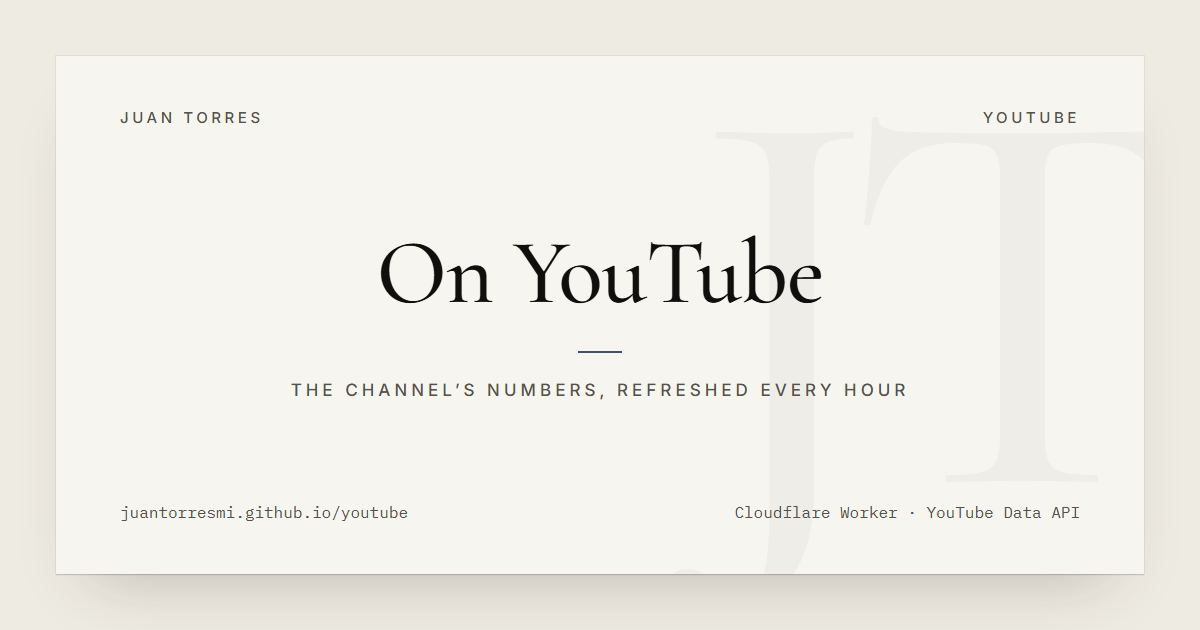
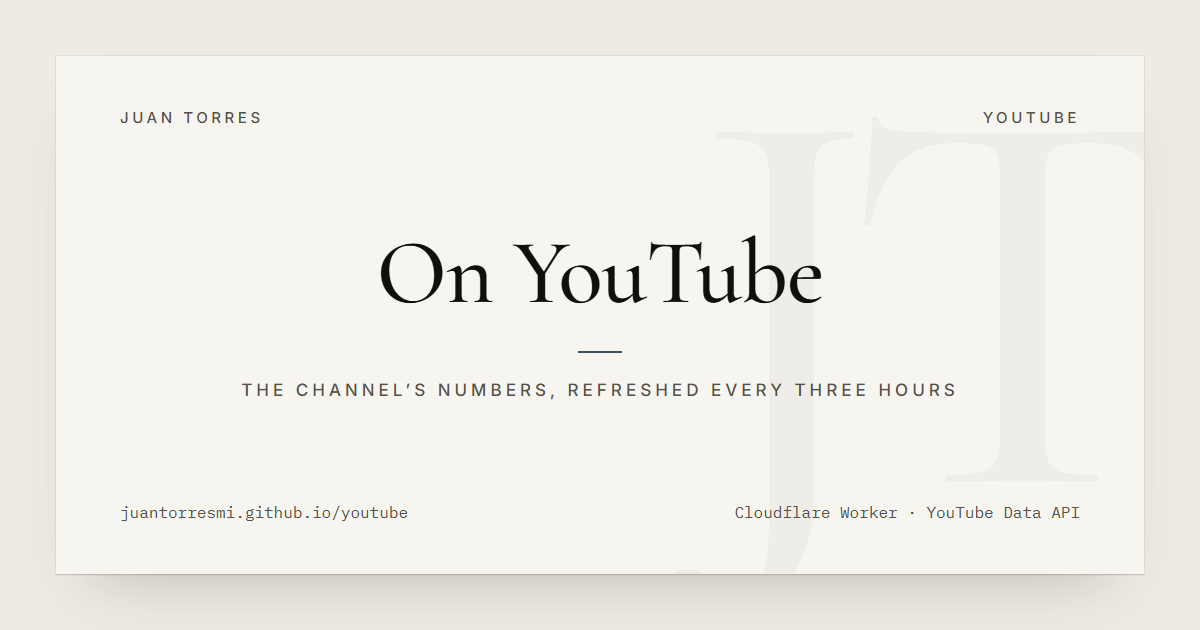
Time the Worker to the reports: fewer checks, pages rebuilt when prices land
Beef and pork checks run only in USDA's windows (weekdays 1:30-6 pm
Central until the day's report is stored, 6-8 am for corrections),
about 8 a weekday instead of 28. Storing a new report starts the
snapshot, waiting for both reports in the afternoon and queueing
through the cooldown. One fixed start a day at 11:47 UTC; GitHub's
backup moved to 13:41 daily and 23:41 weekdays. YouTube is polled
every three hours. Wording, share picture and docs follow.

Changed region(s): [[0.185, 0.6032, 0.8017, 0.6333]]

diff --git a/worker/src/index.js b/worker/src/index.js
@@ -13,10 +13,10 @@
  *   /music/...     Yokonjuan's page: catalog, visitor counter, guestbook (see music.js)
  *
  * Two cron triggers in wrangler.toml call `scheduled`, at :17 and :47. Both read CBP's border wait
- * times, so those are polled every half hour; on weekdays from 6 am to 8 pm Central (lmrHours) they
- * also check for a new boxed beef and pork report. The :17 run also polls YouTube. The :47 runs at 09
- * and 21 UTC start the site's snapshot workflow (refresh.js), since GitHub's own schedule for it runs
- * hours late or not at all. The reefer rates
+ * times, so those are polled every half hour. On weekdays, in the windows USDA posts and corrects the
+ * boxed beef and pork reports (lmrWindow), they check for a new one, and a new one starts the site's
+ * snapshot workflow (refresh.js); so does the :47 run at 11 UTC, every day. The :17 run every three
+ * hours polls YouTube. The reefer rates
  * need no cron: USDA keeps them, and they're asked for on request.
  */
 import { catalog, CATALOG_MAX_AGE, visits, guestbook, sign, unsign, Refused } from "./music.js";
@@ -25,7 +25,7 @@ import { reeferWeek, REEFER_MAX_AGE, REEFER_WEEK_MAX_AGE } from "./reefer.js";
 import { borderTick, borderNow, borderPort, BORDER_MAX_AGE, BORDER_PORT_MAX_AGE } from "./border.js";
 import { beefTick, beefData, BEEF_MAX_AGE } from "./beef.js";
 import { porkTick, porkData, PORK_MAX_AGE } from "./pork.js";
-import { refreshState, startSnapshot, snapshotDue } from "./refresh.js";
+import { refreshState, startSnapshot, snapshotDue, setPending, isPending } from "./refresh.js";
 
 const STREMIO = "https://api.strem.io/api/datastoreGet";
 const SUBSTACK = "https://juantorresis.substack.com/feed";
@@ -85,25 +85,56 @@ export default {
   // Crons in wrangler.toml. A failed poll is logged and the last stored data stays.
   async scheduled(event, env, ctx) {
     const log = (what) => (e) => console.error(what + ":", e && e.message ? e.message : e);
-    if (event.cron === YOUTUBE_CRON) ctx.waitUntil(poll(env).catch(log("youtube poll")));
+    const now = new Date(event.scheduledTime || Date.now());
+    // A small channel's numbers barely move in an hour, and the page says when they were checked.
+    if (event.cron === YOUTUBE_CRON && now.getUTCHours() % YOUTUBE_EVERY_H === 0) ctx.waitUntil(poll(env).catch(log("youtube poll")));
     ctx.waitUntil(borderTick(env).catch(log("border")));
-    if (snapshotDue(new Date(event.scheduledTime || Date.now()), event.cron)) ctx.waitUntil(startSnapshot(env, "cron").catch(log("snapshot start")));
-    // USDA posts the beef and pork reports on weekday afternoons and corrects them the same day or
-    // the next morning, so the summary checks only run then: 28 a weekday instead of 48 every day.
-    if (lmrHours(new Date(event.scheduledTime || Date.now()))) {
-      ctx.waitUntil(beefTick(env).catch(log("beef")));
-      ctx.waitUntil(porkTick(env).catch(log("pork")));
-    }
+    ctx.waitUntil(pagesTick(env, now, event.cron, log).catch(log("usda and pages")));
   },
 };
 
-/* Monday to Friday, 6 am to 8 pm Central: when a new or corrected USDA livestock report can appear.
-   A page whose copy is behind outside these hours still gets the stored report from /beef or /pork. */
-export function lmrHours(now) {
-  const parts = Object.fromEntries(new Intl.DateTimeFormat("en-US", { timeZone: "America/Chicago", weekday: "short", hour: "numeric", hourCycle: "h23" })
-    .formatToParts(now).map((p) => [p.type, p.value]));
-  const hour = Number(parts.hour);
-  return !["Sat", "Sun"].includes(parts.weekday) && hour >= 6 && hour < 20;
+const YOUTUBE_EVERY_H = 3;
+
+/* The beef and pork report checks, then whether to start the site's snapshot (refresh.js).
+   In the afternoon window a check stops once that day's report is stored, so most afternoons it asks
+   USDA two or three times; the morning window catches USDA's corrections to the day before. A new or
+   corrected report marks the pages pending. In the afternoon a pending start waits until both
+   reports for the day are in (they come about ten minutes apart, and one start covers both) or the
+   window ends; in the morning, or once the window is over, it starts at the next run the cooldown
+   allows. The daily morning start covers everything else and clears anything pending. */
+export async function pagesTick(env, now, cron, log) {
+  const w = lmrWindow(now), today = centralDay(now);
+  let both = false;
+  if (w) {
+    const skipDay = w === "afternoon" ? today : null;
+    const [b, p] = await Promise.all([beefTick(env, { skipDay }).catch(log("beef")), porkTick(env, { skipDay }).catch(log("pork"))]);
+    if ((b && b.changed) || (p && p.changed)) await setPending(env, true);
+    both = Boolean(b && p && b.latest === today && p.latest === today);
+  }
+  if (!env.GH_DISPATCH_TOKEN) return;
+  if (snapshotDue(now, cron)) {
+    if ((await startSnapshot(env, "morning")).started) await setPending(env, false);
+    return;
+  }
+  if ((both || w !== "afternoon") && (await isPending(env))) {
+    if ((await startSnapshot(env, "new report")).started) await setPending(env, false);
+  }
+}
+
+const central = (now) => Object.fromEntries(new Intl.DateTimeFormat("en-US", { timeZone: "America/Chicago", weekday: "short", hour: "numeric", minute: "numeric", hourCycle: "h23" })
+  .formatToParts(now).map((p) => [p.type, p.value]));
+const centralDay = (now) => new Intl.DateTimeFormat("en-CA", { timeZone: "America/Chicago" }).format(now);   // "YYYY-MM-DD"
+
+/* When a check can find something, Monday to Friday, Central time: "afternoon" from 1:30 to 6 pm, when
+   USDA posts the day's report (about 2:45 pm for beef, 2:55 for pork, sometimes late); "morning" from
+   6 to 8 am, when it corrects the day before. Otherwise null: a stored report can't change then, and
+   a page whose copy is behind still gets it from /beef or /pork. */
+export function lmrWindow(now) {
+  const c = central(now), mins = Number(c.hour) * 60 + Number(c.minute);
+  if (["Sat", "Sun"].includes(c.weekday)) return null;
+  if (mins >= 13 * 60 + 30 && mins < 18 * 60) return "afternoon";
+  if (mins >= 6 * 60 && mins < 8 * 60) return "morning";
+  return null;
 }
 
 const json = (body, status, headers) =>
@@ -249,8 +280,8 @@ async function latestRoute(env, ctx, url, cors, name, data, maxAge) {
   }
   // Nothing stored yet: answer, but don't keep the empty answer at the edge (see reeferRoute).
   if (!payload.latest) return json(payload, 200, { ...cors, "Cache-Control": "no-store" });
-  // Outside the hours a report can change (lmrHours) the stored one holds until morning: an hour at the edge.
-  const res = json(payload, 200, { ...cors, "Cache-Control": `public, max-age=${lmrHours(new Date()) ? maxAge : 3600}` });
+  // Outside the windows a report can change (lmrWindow) the stored one holds: an hour at the edge.
+  const res = json(payload, 200, { ...cors, "Cache-Control": `public, max-age=${lmrWindow(new Date()) ? maxAge : 3600}` });
   ctx.waitUntil(cache.put(cacheKey, res.clone()));
   return res;
 }

diff --git a/youtube.html b/youtube.html
@@ -3,15 +3,15 @@ layout: default
 title: YouTube
 seo_title: "Kalista ADC Gameplay, Emerald · YouTube · Juan Torres"
 permalink: /youtube/
-description: "Kalista ADC gameplay from Emerald League of Legends games, full games and short clips, with the channel's live numbers, refreshed every hour."
+description: "Kalista ADC gameplay from Emerald League of Legends games, full games and short clips, with the channel's live numbers, refreshed every three hours."
 image: /assets/og/youtube.png
-image_alt: "YouTube, by Juan Torres. Channel numbers refreshed every hour by a Cloudflare Worker."
+image_alt: "YouTube, by Juan Torres. Channel numbers refreshed every three hours by a Cloudflare Worker."
 stock: night
 ---
 {%- comment -%}
   A "gamer" page (see the families in CLAUDE.md): night stock, HUD frames, mono labels. Styles
   are scoped under .yt in style.css.
-  site.data.live.youtube is a twice-daily copy of the Worker's answer (scripts/snapshot.py), already
+  site.data.live.youtube is a daily copy of the Worker's answer (scripts/snapshot.py), already
   formatted. It is what crawlers and readers without JavaScript see; the script below swaps in
   the live numbers. Each block falls back to the old placeholder if the copy is missing.
 {%- endcomment -%}
@@ -21,7 +21,7 @@ stock: night
   <div class="yt-title">
     <p class="family">Gamer · Juan Julio · @juanjulio001</p>
     <h1>Kalista ADC gameplay, Emerald</h1>
-    <p class="yt-lede">Full League of Legends games and short clips from my Kalista ADC games in Emerald. The numbers below come straight from YouTube, refreshed every hour. <a class="link" href="#how-it-works">How this page gets them</a> is further down.</p>
+    <p class="yt-lede">Full League of Legends games and short clips from my Kalista ADC games in Emerald. The numbers below come straight from YouTube, refreshed every three hours. <a class="link" href="#how-it-works">How this page gets them</a> is further down.</p>
   </div>
   <a class="yt-sub" id="yt-link" href="{{ yt.channel_url | default: 'https://www.youtube.com/@juanjulio001' }}?sub_confirmation=1">
     <svg viewBox="0 0 16 16" aria-hidden="true"><path d="M5 3.5v9l7-4.5z"/></svg>Subscribe on YouTube</a>
@@ -32,7 +32,7 @@ stock: night
     {%- for t in yt.hud %}<div class="yt-stat{% if t.hot %} hot{% endif %}"><span class="l">{{ t.l | escape }}</span><span class="n">{{ t.n | escape }}</span></div>{% endfor -%}
   {%- else %}<p class="yt-note">Asking YouTube…</p>{% endif -%}
 </section>
-<noscript><p class="yt-note">{% if yt %}With JavaScript off, these are the numbers as of {{ yt.checked }}, copied into the page twice a day.{% else %}The numbers are filled in by a script. With JavaScript off, the channel is one click away on YouTube.{% endif %}</p></noscript>
+<noscript><p class="yt-note">{% if yt %}With JavaScript off, these are the numbers as of {{ yt.checked }}, copied into the page at least once a day.{% else %}The numbers are filled in by a script. With JavaScript off, the channel is one click away on YouTube.{% endif %}</p></noscript>
 
 <div class="yt-pair">
   <section class="yt-block yt-feature-wrap" aria-labelledby="yt-feature-h">
@@ -95,14 +95,14 @@ stock: night
     <div class="body prose">
       <p>A web page can’t ask YouTube for numbers on its own without putting an API key in its source, where anyone can copy it. So the asking happens somewhere else: a small Cloudflare Worker, the same one that already runs this site’s <a href="/watching/">house TV</a> board and the Substack feed on the <a href="/blog/">writing</a> page.</p>
       <ol>
-        <li><strong>Once an hour, the Worker wakes itself up.</strong> A cron trigger runs it at 17 minutes past every hour. No one has to visit the page, and my computer doesn’t have to be on.</li>
+        <li><strong>Every three hours, the Worker wakes itself up.</strong> A cron trigger runs it at 17 minutes past midnight, 3, 6 and so on (UTC). No one has to visit the page, and my computer doesn’t have to be on.</li>
         <li><strong>It asks YouTube three questions.</strong> One call for the channel’s subscribers, total views and video count, one for the list of its latest uploads, and one for each upload’s views, likes and length. Each call costs one unit of YouTube’s free daily quota of 10,000, so the whole day costs 72.</li>
         <li><strong>It writes the answer down.</strong> The latest snapshot goes into a small SQLite database on Cloudflare (D1), along with one row per day, which is where the day-by-day changes above come from. If YouTube doesn’t answer, nothing is overwritten and the last good snapshot stays.</li>
         <li><strong>This page reads the snapshot, not YouTube.</strong> Your visit costs YouTube’s quota nothing, and a busy day on the site can’t use it up. Cloudflare also keeps a copy at the edge for five minutes, so most visits don’t even reach the database.</li>
-        <li><strong>Twice a day, a copy goes into the page itself.</strong> A GitHub Action asks the Worker for the snapshot and writes it into this page’s HTML. That copy is what search engines, link previews and browsers with JavaScript off see; with JavaScript on, the script swaps in the live numbers a moment after the page loads.</li>
+        <li><strong>At least once a day, a copy goes into the page itself.</strong> A GitHub Action asks the Worker for the snapshot and writes it into this page’s HTML. That copy is what search engines, link previews and browsers with JavaScript off see; with JavaScript on, the script swaps in the live numbers a moment after the page loads.</li>
       </ol>
       <p>The key the Worker uses is a plain YouTube Data API key, stored as an encrypted secret on Cloudflare and never in this site’s code. It can only read public data: it can’t sign in, upload, or change anything on the channel. The uploads themselves come from a separate program on my own computer that has its own sign-in and its own quota, so this page can never get in their way.</p>
-      <p>All of it runs on free plans. Cloudflare’s free tier covers the hourly job, the database and the requests with a lot of room to spare, and on that plan going over a limit makes requests fail until the next day instead of sending a bill.</p>
+      <p>All of it runs on free plans. Cloudflare’s free tier covers the scheduled job, the database and the requests with a lot of room to spare, and on that plan going over a limit makes requests fail until the next day instead of sending a bill.</p>
       <p>Two things on this page are YouTube’s rules, not mine. The public subscriber count is rounded to three significant figures, so 12,345 shows as 12,300. And “Short” here means an upload three minutes long or less, which is YouTube’s own limit for one.</p>
       <p>The code is in the <a href="https://github.com/JuanTorresMI/JuanTorresMI.github.io/tree/main/worker">worker folder</a> of this site’s repository on GitHub, along with the setup steps.</p>
     </div>

diff --git a/_includes/beef-board.html b/_includes/beef-board.html
@@ -218,7 +218,7 @@
 
 <section class="rb-sec" id="data" aria-labelledby="data-h">
   <h2 id="data-h">{% if es %}Descargar los datos{% else %}Download the data{% endif %}</h2>
-  <p>{% if es %}Todo lo de esta página y de las páginas de cada corte, como archivos CSV sencillos que cualquiera puede abrir en una hoja de cálculo o cargar en código. Se reescriben dos veces al día con el reporte más nuevo y son de uso libre: los números son del USDA, y los datos del gobierno de EE. UU. son de dominio público. Dé crédito a USDA AMS Livestock, Poultry and Grain Market News.{% else %}Everything on this page and the cut pages, as plain CSV files anyone can open in a spreadsheet or load into code. They’re rewritten twice a day with the newest report and are free to use: the numbers are USDA’s, and U.S. government data is in the public domain. Credit USDA AMS Livestock, Poultry and Grain Market News.{% endif %}</p>
+  <p>{% if es %}Todo lo de esta página y de las páginas de cada corte, como archivos CSV sencillos que cualquiera puede abrir en una hoja de cálculo o cargar en código. Se reescriben al menos una vez al día con el reporte más nuevo y son de uso libre: los números son del USDA, y los datos del gobierno de EE. UU. son de dominio público. Dé crédito a USDA AMS Livestock, Poultry and Grain Market News.{% else %}Everything on this page and the cut pages, as plain CSV files anyone can open in a spreadsheet or load into code. They’re rewritten at least once a day with the newest report and are free to use: the numbers are USDA’s, and U.S. government data is in the public domain. Credit USDA AMS Livestock, Poultry and Grain Market News.{% endif %}</p>
   <div class="rb-scroll">
     <table class="rb-t rb-wrap">
       <thead><tr><th scope="col">{% if es %}Archivo{% else %}File{% endif %}</th><th scope="col">{% if es %}Filas{% else %}Rows{% endif %}</th><th scope="col">{% if es %}Tamaño{% else %}Size{% endif %}</th><th scope="col">{% if es %}Qué contiene{% else %}What’s in it{% endif %}</th></tr></thead>
@@ -348,14 +348,14 @@
     <div class="body prose">
     {%- if es %}
       <ol>
-        <li><strong>El historial es del propio USDA.</strong> El USDA guarda cada reporte y su base de datos de Reportes Obligatorios de Ganado entrega cualquier periodo, sin clave. Así que aquí no se guarda una segunda copia de lo que el USDA ya tiene: dos veces al día una GitHub Action vuelve a leer los CSV descargables, que contienen cada día ya obtenido, y solo le pide al USDA el último mes o dos, por si se corrigió un reporte.</li>
+        <li><strong>El historial es del propio USDA.</strong> El USDA guarda cada reporte y su base de datos de Reportes Obligatorios de Ganado entrega cualquier periodo, sin clave. Así que aquí no se guarda una segunda copia de lo que el USDA ya tiene: al menos una vez al día una GitHub Action vuelve a leer los CSV descargables, que contienen cada día ya obtenido, y solo le pide al USDA el último mes o dos, por si se corrigió un reporte.</li>
         <li><strong>Guarda cada corte una vez al día.</strong> Con eso reconstruye esta página, una página por corte y los CSV: una fila por corte, grado y día, con el mínimo, el máximo, el promedio ponderado, las ventas y las libras. Un corte que no se vendió no tiene fila, nunca un cero.</li>
         <li><strong>Un Cloudflare Worker vigila el siguiente reporte.</strong> El mismo Worker pequeño detrás de los <a href="/es/tiempos-de-espera/">tiempos de espera en la frontera</a> de este sitio revisa al USDA cada media hora y guarda solo el reporte más nuevo. Cuando la copia de esta página es más vieja que un reporte que ya debería haber salido, la página le pregunta al Worker y pone las cifras nuevas arriba. El resto del tiempo la página no pregunta nada, así que no cuesta nada mantenerla, la visiten cuantos la visiten.</li>
       </ol>
       <p>Fuente: Servicio de Comercialización Agrícola del USDA (AMS), Livestock, Poultry and Grain Market News. Los números son suyos y son públicos; cualquier error al presentarlos es mío. El código del Worker está en la <a href="https://github.com/JuanTorresMI/JuanTorresMI.github.io/tree/main/worker">carpeta worker</a> del repositorio de este sitio.</p>
     {%- else %}
       <ol>
-        <li><strong>The history is USDA’s own.</strong> USDA keeps every report and its Livestock Mandatory Reporting datamart hands out any stretch of them, with no key. So nothing here keeps a second copy of what USDA already stores: twice a day a GitHub Action reads back the CSV downloads, which hold every day already fetched, and asks USDA only for the last month or two, in case a report was corrected.</li>
+        <li><strong>The history is USDA’s own.</strong> USDA keeps every report and its Livestock Mandatory Reporting datamart hands out any stretch of them, with no key. So nothing here keeps a second copy of what USDA already stores: at least once a day a GitHub Action reads back the CSV downloads, which hold every day already fetched, and asks USDA only for the last month or two, in case a report was corrected.</li>
         <li><strong>It keeps every cut once a day.</strong> From those it rebuilds this board, a page for every cut and the CSVs: one row per cut, grade and day, with the low, the high, the weighted average, the trades and the pounds. A cut that didn’t trade gets no row, never a zero.</li>
         <li><strong>A Cloudflare Worker watches for the next report.</strong> The same small Worker behind this site’s <a href="/reefer-rates/">reefer rate board</a> and <a href="/border-waits/">border wait board</a> checks USDA every half hour and keeps only the newest report. When this page’s copy is older than a report that should be out, the page asks the Worker and puts the new figures at the top, usually within half an hour of USDA posting them. The rest of the time the page asks nothing, so however many people visit, it costs nothing to run.</li>
       </ol>

diff --git a/_includes/pork-board.html b/_includes/pork-board.html
@@ -183,7 +183,7 @@
 
 <section class="rb-sec" id="data" aria-labelledby="data-h">
   <h2 id="data-h">{% if es %}Descargar los datos{% else %}Download the data{% endif %}</h2>
-  <p>{% if es %}Todo lo de esta página y de las páginas de cada corte, como archivos CSV, con un archivo aparte de nombres en inglés y en español. Se reescriben dos veces al día y son de uso libre: los números son del USDA y son de dominio público. Dé crédito a USDA AMS.{% else %}Everything on this page and the cut pages, as plain CSV files, with a separate file of every item’s name in English and Spanish. They’re rewritten twice a day and are free to use: the numbers are USDA’s and in the public domain. Credit USDA AMS.{% endif %}</p>
+  <p>{% if es %}Todo lo de esta página y de las páginas de cada corte, como archivos CSV, con un archivo aparte de nombres en inglés y en español. Se reescriben al menos una vez al día y son de uso libre: los números son del USDA y son de dominio público. Dé crédito a USDA AMS.{% else %}Everything on this page and the cut pages, as plain CSV files, with a separate file of every item’s name in English and Spanish. They’re rewritten at least once a day and are free to use: the numbers are USDA’s and in the public domain. Credit USDA AMS.{% endif %}</p>
   <div class="rb-scroll">
     <table class="rb-t rb-wrap">
       <thead><tr><th scope="col">{% if es %}Archivo{% else %}File{% endif %}</th><th scope="col">{% if es %}Filas{% else %}Rows{% endif %}</th><th scope="col">{% if es %}Tamaño{% else %}Size{% endif %}</th><th scope="col">{% if es %}Qué contiene{% else %}What’s in it{% endif %}</th></tr></thead>
@@ -279,9 +279,9 @@
   <div class="row">
     <div class="body prose">
     {%- if es %}
-      <p>Igual que el <a href="/es/precios-de-carne-de-res/">tablero de la res</a>: el historial es del propio USDA, que lo sirve sin clave. Dos veces al día una GitHub Action vuelve a leer los CSV ya publicados y solo le pide al USDA el último mes o dos; con eso reconstruye esta página, una página por corte y los archivos. Un Cloudflare Worker guarda solo el reporte más nuevo, para que la parte de arriba muestre el reporte de la tarde sin esperar a la reconstrucción de la noche. Fuente: USDA AMS, Livestock, Poultry and Grain Market News; cualquier error al presentar los números es mío.</p>
+      <p>Igual que el <a href="/es/precios-de-carne-de-res/">tablero de la res</a>: el historial es del propio USDA, que lo sirve sin clave. Al menos una vez al día una GitHub Action vuelve a leer los CSV ya publicados y solo le pide al USDA el último mes o dos; con eso reconstruye esta página, una página por corte y los archivos. Un Cloudflare Worker guarda solo el reporte más nuevo, para que la parte de arriba muestre el reporte de la tarde sin esperar a la reconstrucción de la noche. Fuente: USDA AMS, Livestock, Poultry and Grain Market News; cualquier error al presentar los números es mío.</p>
     {%- else %}
-      <p>The same way as the <a href="/beef-prices/">beef board</a>: the history is USDA’s own, served with no key. Twice a day a GitHub Action reads back the CSVs already published and asks USDA only for the last month or two, then rebuilds this board, a page per cut and the files. A Cloudflare Worker keeps just the newest report, so the top of the page can show the afternoon’s report without waiting for the evening rebuild. Source: USDA AMS, Livestock, Poultry and Grain Market News; any mistakes in presenting the numbers are mine.</p>
+      <p>The same way as the <a href="/beef-prices/">beef board</a>: the history is USDA’s own, served with no key. At least once a day a GitHub Action reads back the CSVs already published and asks USDA only for the last month or two, then rebuilds this board, a page per cut and the files. A Cloudflare Worker keeps just the newest report, so the top of the page can show the afternoon’s report without waiting for the evening rebuild. Source: USDA AMS, Livestock, Poultry and Grain Market News; any mistakes in presenting the numbers are mine.</p>
     {%- endif %}
     </div>
   </div>

diff --git a/worker/src/beef.js b/worker/src/beef.js
@@ -11,9 +11,10 @@
  * USDA keeps every report back to the 2000s and serves any date range, so nothing here keeps a
  * history: the site's snapshot (scripts/snapshot.py) reads the history from USDA and from the CSVs
  * it has already committed. The Worker holds one row, the newest report, so the board's page script
- * can show a report within half an hour of USDA posting it instead of waiting for the evening rebuild.
+ * can show a report within half an hour of USDA posting it before the pages are rebuilt with it.
  *
- * The cron runs (:17 and :47) on weekdays, 6 am to 8 pm Central (lmrHours in index.js), call `beefTick`. It asks for the newest report's summary, a few
+ * The cron runs (:17 and :47) in USDA's windows (lmrWindow in index.js: weekdays 1:30-6 pm Central until
+ * the day's report is stored, and 6-8 am for corrections) call `beefTick`. It asks for the newest report's summary, a few
  * hundred bytes; only when USDA has posted something it hasn't stored (a new report, or a correction)
  * does it fetch the whole report with allSections=true, about 110 KB, and replace the row.
  */
@@ -81,17 +82,21 @@ const stored = async (env) => {
 };
 
 /* Stores the newest report if USDA has posted one this Worker hasn't seen (or corrected one). */
-export async function beefTick(env) {
-  const head = ((await usda("/Summary", "lastReports=1"))[0] || {}).results || [];
-  if (!head.length) return;
-  const day = iso(head[0].report_date), published = head[0].published_date || null;
+/* Returns { changed, latest }: whether a new or corrected report was stored, and the day it covers.
+   With skipDay ("YYYY-MM-DD"), a stored report for that day ends it before asking USDA anything. */
+export async function beefTick(env, { skipDay } = {}) {
   const have = await stored(env);
-  if (have && have.latest === day && have.published === published) return;
+  if (skipDay && have && have.latest === skipDay) return { changed: false, latest: have.latest };
+  const head = ((await usda("/Summary", "lastReports=1"))[0] || {}).results || [];
+  if (!head.length) return { changed: false, latest: have && have.latest };
+  const day = iso(head[0].report_date), published = head[0].published_date || null;
+  if (have && have.latest === day && have.published === published) return { changed: false, latest: day };
   const report = parse(await usda("", `q=report_date=${encodeURIComponent(mdy(day))}&allSections=true`));
-  if (!report || !report.items.length) return;
+  if (!report || !report.items.length) return { changed: false, latest: have && have.latest };
   const body = { latest: report.day.day, published: report.day.published, day: report.day, items: report.items, stored: new Date().toISOString() };
   await env.DB.prepare(`INSERT INTO beef_latest (id, body, updated_at) VALUES (1, ?1, ?2)
     ON CONFLICT(id) DO UPDATE SET body = ?1, updated_at = ?2`).bind(JSON.stringify(body), body.stored).run();
+  return { changed: true, latest: body.latest };
 }
 
 /* GET /beef: the stored newest report. The very first request after deploying fetches it on the spot. */

diff --git a/worker/src/refresh.js b/worker/src/refresh.js
@@ -2,13 +2,18 @@
  * the Worker's data into the pages and redeploys them. GitHub's own schedule for it is late by hours
  * or skipped often enough that the pages fell a day behind, so the Worker starts it instead:
  *
- *   - twice a day from the cron, at the :47 runs of 09 and 21 UTC (SNAPSHOT_HOURS_UTC);
+ *   - every morning, from the :47 cron run at 11 UTC (SNAPSHOT_HOUR_UTC): the border averages, the
+ *     YouTube and TV copies, and any weekly cattle or reefer report;
+ *   - when a new or corrected beef or pork report is stored (index.js marks it pending; see
+ *     `pagesTick` there): the new prices reach the pages about half an hour after USDA posts them;
  *   - on request, from the "Update now" button on the data boards (POST /refresh).
  *
- * Both share one global cooldown (REFRESH_COOLDOWN_MS, an hour): however many people press the
+ * All share one global cooldown (REFRESH_COOLDOWN_MS, an hour): however many people press the
  * button, the workflow starts at most once an hour. The time of the last start is one row of the
  * `counters` table (name 'refresh_at', milliseconds), claimed with a single conditional UPDATE so two
  * presses in the same instant can't both win. If GitHub refuses the start, the claim is given back.
+ * A report that arrives during the cooldown isn't lost: it stays pending ('refresh_pending') and the
+ * next cron run after the cooldown starts it.
  *
  *   GET  /refresh   { ready, last, next }   ready is false until GH_DISPATCH_TOKEN is set
  *   POST /refresh   202 { started: true, last, next } | 429 { started: false, last, next }
@@ -17,7 +22,7 @@
  * "Actions: read and write" and nothing else (see README.md). Without it nothing here runs.
  */
 export const REFRESH_COOLDOWN_MS = 60 * 60 * 1000;
-export const SNAPSHOT_HOURS_UTC = [9, 21];
+export const SNAPSHOT_HOUR_UTC = 11;     // 6:47 am Central in summer, 5:47 in winter
 const REPO = "JuanTorresMI/JuanTorresMI.github.io";
 const WORKFLOW = "snapshot.yml";
 
@@ -64,7 +69,17 @@ export async function startSnapshot(env, why) {
   return { started: true, ...state(env, now) };
 }
 
-/* The cron's twice-a-day start: the :47 run in each of SNAPSHOT_HOURS_UTC. */
+/* The cron's daily start: the :47 run at SNAPSHOT_HOUR_UTC. */
 export function snapshotDue(now, cron) {
-  return cron === "47 * * * *" && SNAPSHOT_HOURS_UTC.includes(now.getUTCHours());
+  return cron === "47 * * * *" && now.getUTCHours() === SNAPSHOT_HOUR_UTC;
+}
+
+/* A new report waiting for the pages: set when one is stored, cleared when a start goes through. */
+export async function setPending(env, on) {
+  await env.DB.prepare("INSERT INTO counters (name, value) VALUES ('refresh_pending', ?1) ON CONFLICT(name) DO UPDATE SET value = ?1")
+    .bind(on ? 1 : 0).run();
+}
+export async function isPending(env) {
+  const row = await env.DB.prepare("SELECT value FROM counters WHERE name = 'refresh_pending'").first();
+  return Boolean(row && row.value);
 }

diff --git a/worker/src/pork.js b/worker/src/pork.js
@@ -10,7 +10,8 @@
  *
  * As with beef (beef.js), USDA keeps the history and scripts/snapshot.py reads it from there, so the
  * Worker holds one row, the newest report, for the page script that shows it within half an hour.
- * The cron runs on weekdays, 6 am to 8 pm Central, call `porkTick`: a summary of a few hundred bytes, and the whole report only when
+ * The cron runs in USDA's windows (lmrWindow in index.js: weekdays 1:30-6 pm Central until the day's
+ * report is stored, and 6-8 am for corrections) call `porkTick`: a summary of a few hundred bytes, and the whole report only when
  * USDA has posted something new or corrected.
  */
 
@@ -61,17 +62,21 @@ const stored = async (env) => {
   return row ? JSON.parse(row.body) : null;
 };
 
-export async function porkTick(env) {
-  const head = ((await usda("/Summary", "lastReports=1"))[0] || {}).results || [];
-  if (!head.length) return;
-  const day = iso(head[0].report_date), published = head[0].published_date || null;
+/* Returns { changed, latest }: whether a new or corrected report was stored, and the day it covers.
+   With skipDay ("YYYY-MM-DD"), a stored report for that day ends it before asking USDA anything. */
+export async function porkTick(env, { skipDay } = {}) {
   const have = await stored(env);
-  if (have && have.latest === day && have.published === published) return;
+  if (skipDay && have && have.latest === skipDay) return { changed: false, latest: have.latest };
+  const head = ((await usda("/Summary", "lastReports=1"))[0] || {}).results || [];
+  if (!head.length) return { changed: false, latest: have && have.latest };
+  const day = iso(head[0].report_date), published = head[0].published_date || null;
+  if (have && have.latest === day && have.published === published) return { changed: false, latest: day };
   const report = parse(await usda("", `q=report_date=${encodeURIComponent(mdy(day))}&allSections=true`));
-  if (!report || !report.items.length) return;
+  if (!report || !report.items.length) return { changed: false, latest: have && have.latest };
   const body = { latest: report.day.day, published: report.day.published, day: report.day, items: report.items, stored: new Date().toISOString() };
   await env.DB.prepare(`INSERT INTO pork_latest (id, body, updated_at) VALUES (1, ?1, ?2)
     ON CONFLICT(id) DO UPDATE SET body = ?1, updated_at = ?2`).bind(JSON.stringify(body), body.stored).run();
+  return { changed: true, latest: body.latest };
 }
 
 export async function porkData(env) {

diff --git a/reefer-rates/index.html b/reefer-rates/index.html
@@ -269,7 +269,7 @@ last_modified_at: 2026-10-15
       <ol>
         <li><strong>A Cloudflare Worker asks USDA.</strong> The same small Worker behind this site’s <a href="/youtube/">YouTube</a> page holds the key to USDA’s MyMarketNews API, free, read-only and kept as an encrypted secret, never in this site’s code, and fetches whichever week it’s asked for.</li>
         <li><strong>It boils the rows down to lanes.</strong> USDA repeats each rate once per commodity it covers, so the same number shows up dozens of times. The Worker keeps each distinct rate a shipping area quotes to a city once. Usually there’s one; sometimes an area quotes a second rate for a group of crops, citrus most often, and that’s listed under the sheet.</li>
-        <li><strong>The history is USDA’s own.</strong> USDA keeps every week, so nothing here keeps a second copy of it. The CSV download holds every week already fetched, back to January 2020; twice a day a GitHub Action reads it back and asks the Worker only for the newest week and the four before it, in case USDA corrected one.{% if r.history %} {{ r.history }}{% endif %}</li>
+        <li><strong>The history is USDA’s own.</strong> USDA keeps every week, so nothing here keeps a second copy of it. The CSV download holds every week already fetched, back to January 2020; at least once a day a GitHub Action reads it back and asks the Worker only for the newest week and the four before it, in case USDA corrected one.{% if r.history %} {{ r.history }}{% endif %}</li>
         <li><strong>Then this page is rebuilt.</strong> The Action rebuilds every section, a page for every lane and the CSV. Because the page is plain HTML, reading it never touches the Worker at all, however many people visit.</li>
       </ol>
       <p>How to read the numbers: the <strong>range</strong> is the lowest to highest rate reported for a full load in a 48 to 53 foot refrigerated trailer, broker fees included. <strong>Mostly</strong> is where most loads actually moved, when USDA reports it. <strong>Change</strong> is USDA’s own figure for the move from the week before. The truck label is USDA’s read on supply in that area that week, from surplus (more trucks than loads) to shortage (more loads than trucks). “Compared with its history” ranks this week’s middle rate against every earlier week on record for the same lane.</p>

diff --git a/_includes/cattle-board.html b/_includes/cattle-board.html
@@ -219,9 +219,9 @@
   <div class="row">
     <div class="body prose">
     {%- if es %}
-      <p>Igual que los tableros de la <a href="/es/precios-de-carne-de-res/">res</a> y el <a href="/es/precios-de-cerdo/">cerdo</a>: el historial es del USDA, que lo sirve sin clave. Dos veces al día una GitHub Action vuelve a leer los CSV ya publicados, le pide al USDA solo el año en curso y el último mes del reporte diario, y reconstruye esta página, una página por región y los archivos. Nada aquí guarda una segunda copia de lo que el USDA ya tiene, y visitarla no le cuesta nada a nadie. Fuente: USDA AMS; cualquier error al presentar los números es mío.</p>
+      <p>Igual que los tableros de la <a href="/es/precios-de-carne-de-res/">res</a> y el <a href="/es/precios-de-cerdo/">cerdo</a>: el historial es del USDA, que lo sirve sin clave. Al menos una vez al día una GitHub Action vuelve a leer los CSV ya publicados, le pide al USDA solo el año en curso y el último mes del reporte diario, y reconstruye esta página, una página por región y los archivos. Nada aquí guarda una segunda copia de lo que el USDA ya tiene, y visitarla no le cuesta nada a nadie. Fuente: USDA AMS; cualquier error al presentar los números es mío.</p>
     {%- else %}
-      <p>The same way as the <a href="/beef-prices/">beef</a> and <a href="/pork-prices/">pork</a> boards: the history is USDA’s own, served with no key. Twice a day a GitHub Action reads back the CSVs already published, asks USDA only for the current year and the daily report’s last month, and rebuilds this board, a page per region and the files. Nothing here keeps a second copy of what USDA already stores, and visiting costs nothing to run. Source: USDA AMS; any mistakes in presenting the numbers are mine.</p>
+      <p>The same way as the <a href="/beef-prices/">beef</a> and <a href="/pork-prices/">pork</a> boards: the history is USDA’s own, served with no key. At least once a day a GitHub Action reads back the CSVs already published, asks USDA only for the current year and the daily report’s last month, and rebuilds this board, a page per region and the files. Nothing here keeps a second copy of what USDA already stores, and visiting costs nothing to run. Source: USDA AMS; any mistakes in presenting the numbers are mine.</p>
     {%- endif %}
     </div>
   </div>

diff --git a/_includes/usda-hub.html b/_includes/usda-hub.html
@@ -62,7 +62,7 @@
 
 <section class="rb-sec" id="how" aria-labelledby="how-h">
   <h2 id="how-h">{% if es %}Cómo se construyen{% else %}How they’re built{% endif %}</h2>
-  <p>{% if es %}El USDA guarda cada reporte y los sirve sin clave, así que nada aquí guarda una segunda copia. Dos veces al día una GitHub Action vuelve a leer los CSV ya publicados y solo le pide al USDA lo más reciente; luego reconstruye cada tablero y cada página. Un Cloudflare Worker gratuito vigila los reportes de la tarde de la res y el cerdo para que aparezcan en menos de media hora. Visitar las páginas no le cuesta nada a nadie.{% else %}USDA keeps every report and serves them with no key, so nothing here keeps a second copy. Twice a day a GitHub Action reads back the CSVs already published and asks USDA only for what’s new, then rebuilds every board and page. A free Cloudflare Worker watches for the afternoon beef and pork reports so they show up within half an hour. Visiting the pages costs nothing to run.{% endif %}</p>
+  <p>{% if es %}El USDA guarda cada reporte y los sirve sin clave, así que nada aquí guarda una segunda copia. Al menos una vez al día una GitHub Action vuelve a leer los CSV ya publicados y solo le pide al USDA lo más reciente; luego reconstruye cada tablero y cada página. Un Cloudflare Worker gratuito vigila los reportes de la tarde de la res y el cerdo para que aparezcan en menos de media hora. Visitar las páginas no le cuesta nada a nadie.{% else %}USDA keeps every report and serves them with no key, so nothing here keeps a second copy. At least once a day a GitHub Action reads back the CSVs already published and asks USDA only for what’s new, then rebuilds every board and page. A free Cloudflare Worker watches for the afternoon beef and pork reports so they show up within half an hour. Visiting the pages costs nothing to run.{% endif %}</p>
   <p>{% if es %}Fuente: Servicio de Comercialización Agrícola del USDA (AMS), Livestock, Poultry and Grain Market News y Specialty Crops Market News. Los números son suyos; cualquier error al presentarlos es mío.{% else %}Source: USDA Agricultural Marketing Service, Livestock, Poultry and Grain Market News and Specialty Crops Market News. The numbers are theirs; any mistakes in presenting them are mine.{% endif %}</p>
 </section>
 </div>

diff --git a/border-waits/index.html b/border-waits/index.html
@@ -120,7 +120,7 @@ translations_live: true
         <li><strong>Unknown is not zero.</strong> When lanes are closed or the update is pending, CBP posts no wait. Those are stored as blanks, not as zero minutes, and averages skip them. Counting them as zero would make a crossing that’s often closed look fast.</li>
         <li><strong>The averages are the last 30 days.</strong> For each crossing, each day of the week and each hour, the page shows the average posted wait. With only a few weeks on record an hour may rest on two or three readings, so the pages say how many readings they’re based on{% if b %}; the record started {{ b.since_en }}{% endif %}.</li>
         <li><strong>CBP’s own history fills the gap.</strong> CBP also publishes, for every port, the average wait at each hour of each weekday of a month, from the year before. Each crossing page shows that for the current month, labeled as CBP’s, so the heat map is useful from the first day, and the board’s own averages take over once a crossing has a few days of readings.</li>
-        <li><strong>The pages are rebuilt twice a day.</strong> A GitHub Action copies the Worker’s data into the site, so every number is in the HTML. The “right now” columns also refresh from the Worker when the page opens, cached for five minutes.</li>
+        <li><strong>The pages are rebuilt at least once a day.</strong> A GitHub Action copies the Worker’s data into the site, so every number is in the HTML. The “right now” columns also refresh from the Worker when the page opens, cached for five minutes.</li>
       </ol>
       <p>How to read it: <strong>Standard</strong> is the regular commercial lanes; <strong>FAST</strong> is the lane for carriers and drivers enrolled in CBP’s Free and Secure Trade program. <strong>Lanes open</strong> is standard plus FAST, out of the most the port has. The wait is CBP’s, rounded the way CBP rounds it; “no wait” is CBP’s “no delay”.</p>
       <p>Source: U.S. Customs and Border Protection, Border Wait Times. The numbers are public; any mistakes in presenting them are mine. The Worker’s code is in the <a href="https://github.com/JuanTorresMI/JuanTorresMI.github.io/tree/main/worker">worker folder</a> of this site’s repository.</p>

diff --git a/_includes/update-button.html b/_includes/update-button.html
@@ -16,13 +16,13 @@
   if (!ENDPOINT) return;
   const ES = {{ es | default: false | jsonify }};
   const T = ES ? {
-    idle: "Las páginas se actualizan dos veces al día. Este botón las actualiza ya, para todos (una vez por hora).",
+    idle: "Las páginas se actualizan cada mañana y cuando el USDA publica precios nuevos. Este botón las actualiza ya, para todos (una vez por hora).",
     wait: (ago, at) => `Última actualización iniciada ${ago}. La siguiente se puede pedir a las ${at}.`,
     started: "Actualización en marcha: los datos nuevos estarán en unos 5 minutos. Recarga la página entonces.",
     failed: "No se pudo iniciar la actualización. Inténtalo más tarde.",
     now: "hace un momento", min: (n) => `hace ${n} min`,
   } : {
-    idle: "The pages update twice a day. This updates them now, for everyone (once an hour).",
+    idle: "The pages update every morning and when USDA posts new prices. This updates them now, for everyone (once an hour).",
     wait: (ago, at) => `Last update started ${ago}. The next one can be asked for at ${at}.`,
     started: "Update started: the new data will be in the pages in about 5 minutes. Reload then.",
     failed: "Couldn't start the update. Try again later.",
